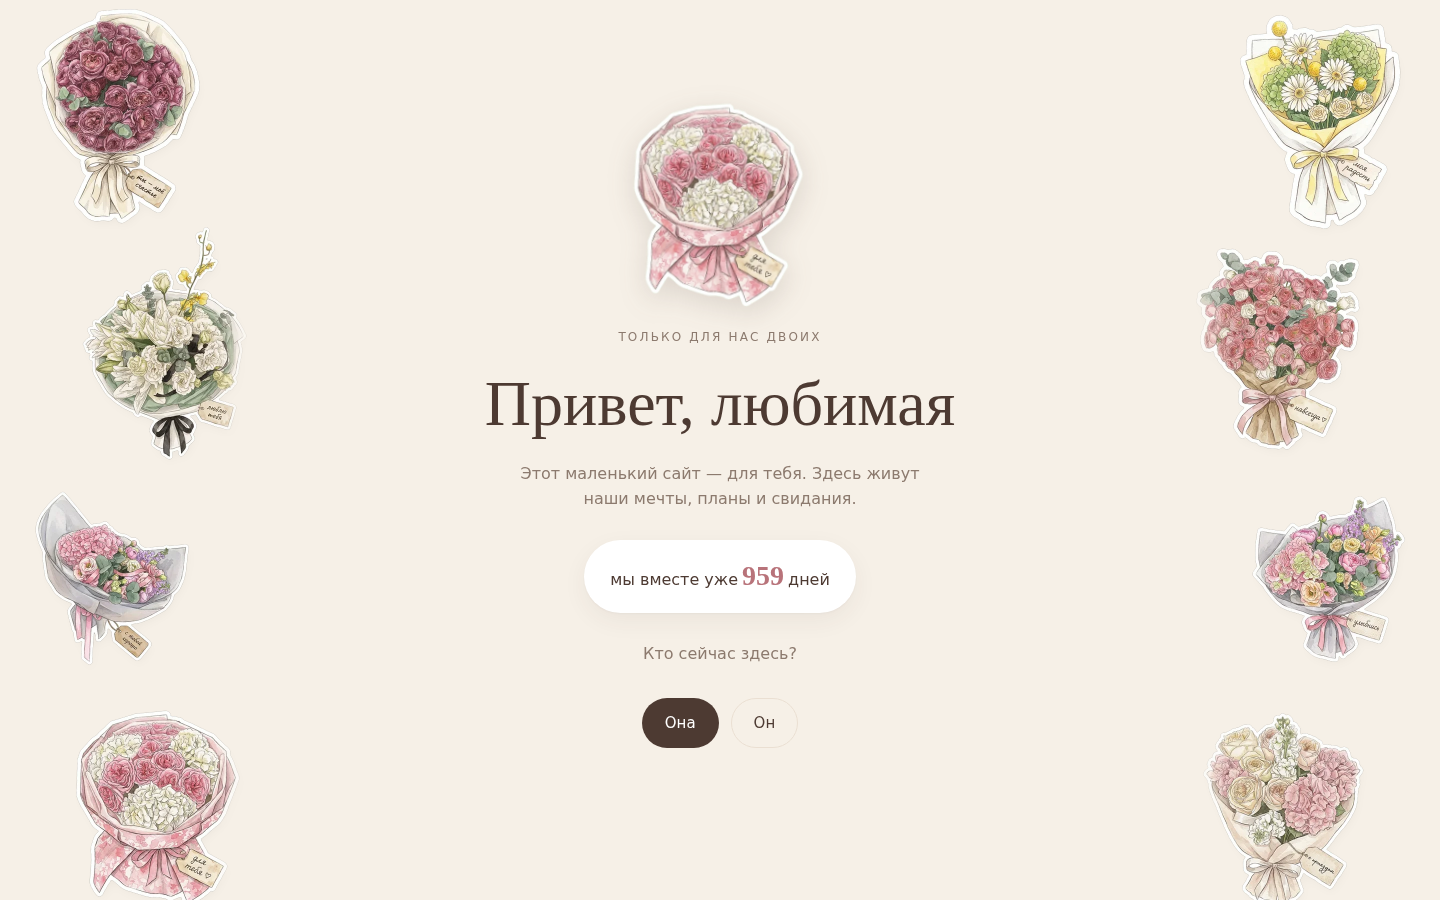
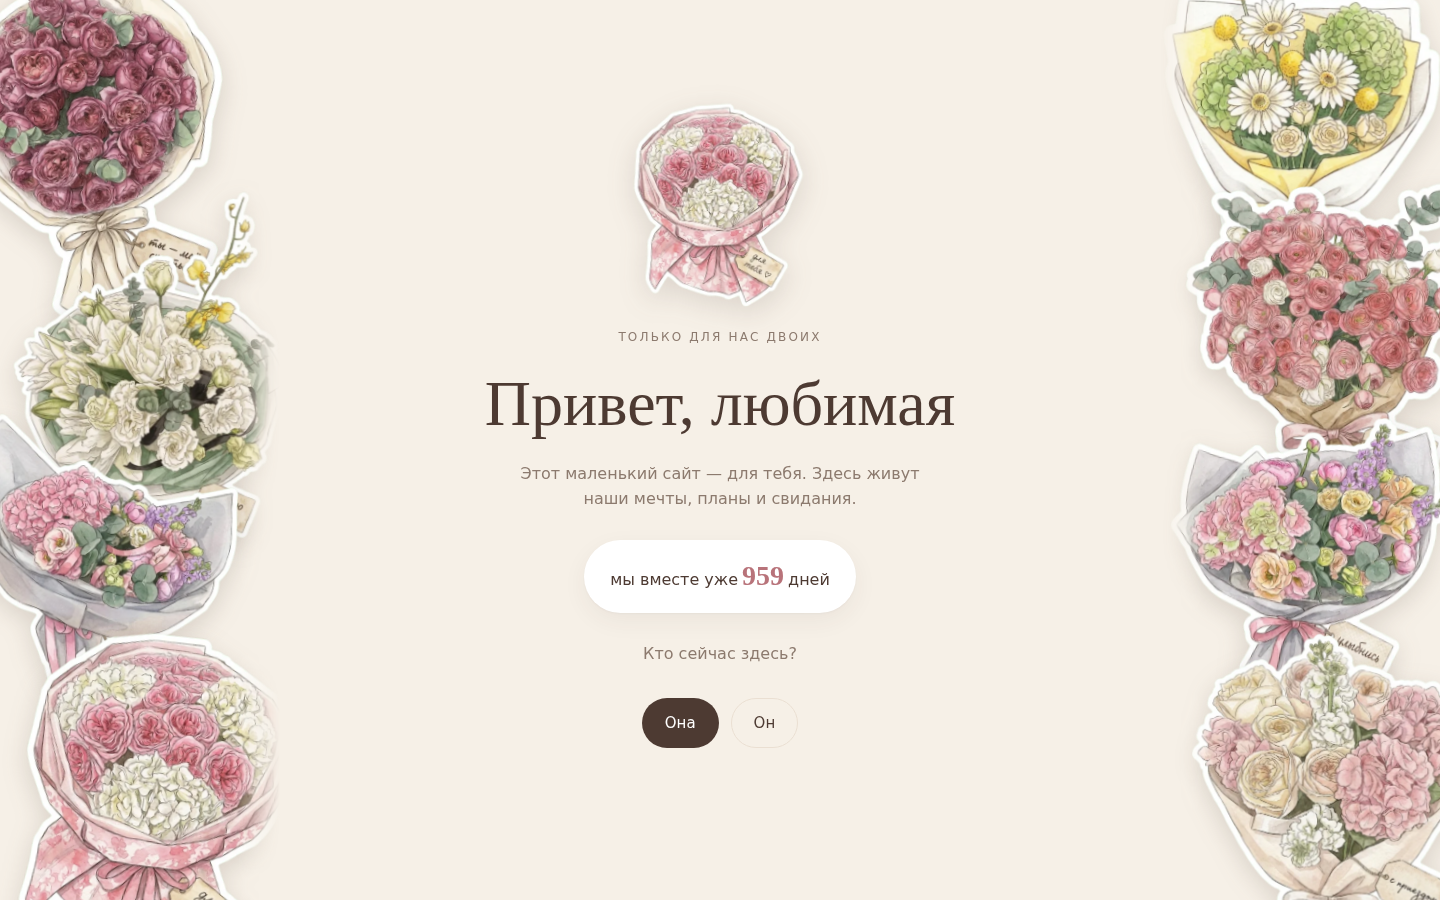
Наклейки по бокам: крупнее, с наложением и покачиванием
Каждая наклейка теперь отдельный элемент со своей мягкой анимацией
(разные скорость и фаза). Готовые полосы-картинки больше не нужны.

Claude-Session: https://claude.ai/code/session_014bX3qYy35dvS7ewg6Hjr1n

Changed region(s): [[0.8125, 0.0, 1.0, 1.0], [0.0, 0.0, 0.1875, 1.0]]

diff --git a/css/style.css b/css/style.css
@@ -40,9 +40,27 @@ a { color: inherit; }
 }
 .side--left { left: 0; }
 .side--right { right: 0; transform: scaleX(-1); }
-.side.custom { transform: none; opacity: 1; background-size: cover; }
-.side--left.custom { background-position: left top; -webkit-mask-image: linear-gradient(to right, #000 75%, transparent); mask-image: linear-gradient(to right, #000 75%, transparent); }
-.side--right.custom { background-position: right top; -webkit-mask-image: linear-gradient(to left, #000 75%, transparent); mask-image: linear-gradient(to left, #000 75%, transparent); }
+.side.custom { transform: none; background: none; opacity: 1; overflow: hidden;
+  -webkit-mask-image: linear-gradient(var(--fade), #000 85%, transparent); mask-image: linear-gradient(var(--fade), #000 85%, transparent); }
+.side--left { --fade: to right; }
+.side--right { --fade: to left; }
+
+.sticker {
+  position: absolute;
+  width: min(110%, 33vh);
+  transform: rotate(var(--r));
+  transform-origin: 50% 85%;
+  filter: drop-shadow(0 8px 12px rgba(90, 70, 60, .18));
+  animation: sticker-sway 6s ease-in-out infinite alternate;
+  will-change: transform;
+}
+.side--left .sticker { left: var(--x); }
+.side--right .sticker { right: var(--x); }
+@keyframes sticker-sway {
+  from { transform: rotate(calc(var(--r) - 3deg)) translateY(0); }
+  to { transform: rotate(calc(var(--r) + 3deg)) translateY(-6px); }
+}
+@media (prefers-reduced-motion: reduce) { .sticker { animation: none; } }
 @media (max-width: 900px) { .side { display: none; } }
 
 /* ---------- Каркас ---------- */

diff --git a/js/app.js b/js/app.js
@@ -377,13 +377,22 @@
     });
   }
 
-  // ---------- Боковые картинки ----------
-  ['left', 'right'].forEach((side) => {
-    const src = C.sides?.[side];
-    if (!src) return;
+  // ---------- Наклейки по бокам ----------
+  // Каждая наклейка — отдельная картинка со своим покачиванием; скорость и фаза разные,
+  // чтобы они не двигались синхронно.
+  ['left', 'right'].forEach((side, s) => {
+    const names = C.stickers?.[side] || [];
+    if (!names.length) return;
     const el = document.querySelector(`.side--${side}`);
-    el.style.backgroundImage = `url('${src}')`;
     el.classList.add('custom');
+    el.innerHTML = names.map((n, i) => {
+      const odd = (i + s) % 2;
+      const top = -4 + i * (100 / names.length);      // % высоты экрана
+      const dur = 5 + ((i * 3 + s * 2) % 4) * 0.8;    // 5–7.4 с
+      return `<img class="sticker" src="assets/stickers/${n}.webp" alt="" style="top:${top}%;` +
+        `--x:${odd ? 2 : -12}%;--r:${odd ? 4 : -4}deg;` +
+        `animation-duration:${dur}s;animation-delay:-${(i * 1.9 + s * 1.1).toFixed(1)}s">`;
+    }).join('');
   });
 
   // ---------- Роутер ----------

diff --git a/js/config.js b/js/config.js
@@ -10,8 +10,10 @@ window.CONFIG = {
   // Дата начала отношений (ГГГГ-ММ-ДД). Пустая строка скрывает счётчик дней.
   startDate: '2024-02-14',
 
-  // Картинки для боковых панелей: положи файлы в assets/flowers/ и впиши пути.
-  // Пустая строка означает нарисованную веточку по умолчанию.
-  // Запасной вариант с гирляндами из отдельных цветов: garland-left.webp / garland-right.webp
-  sides: { left: 'assets/flowers/left.webp', right: 'assets/flowers/right.webp' },
+  // Наклейки по бокам (файлы из assets/stickers/), сверху вниз.
+  // Пустые списки вернут нарисованную веточку.
+  stickers: {
+    left: ['o1', 's1', 's4', 's3'],
+    right: ['s2', 'o2', 'o4', 'o3'],
+  },
 };
